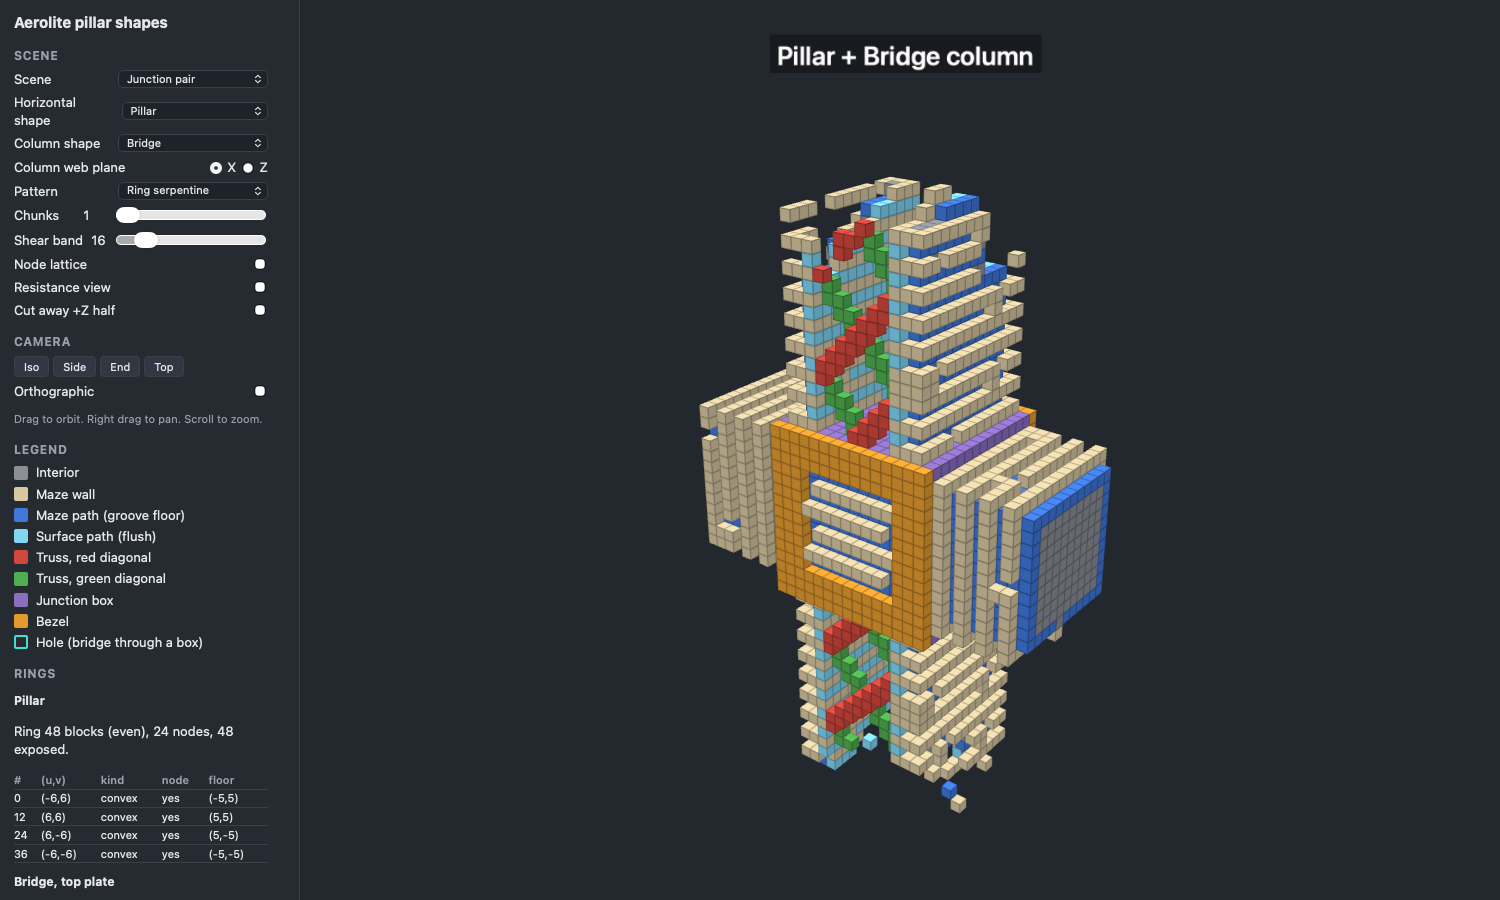
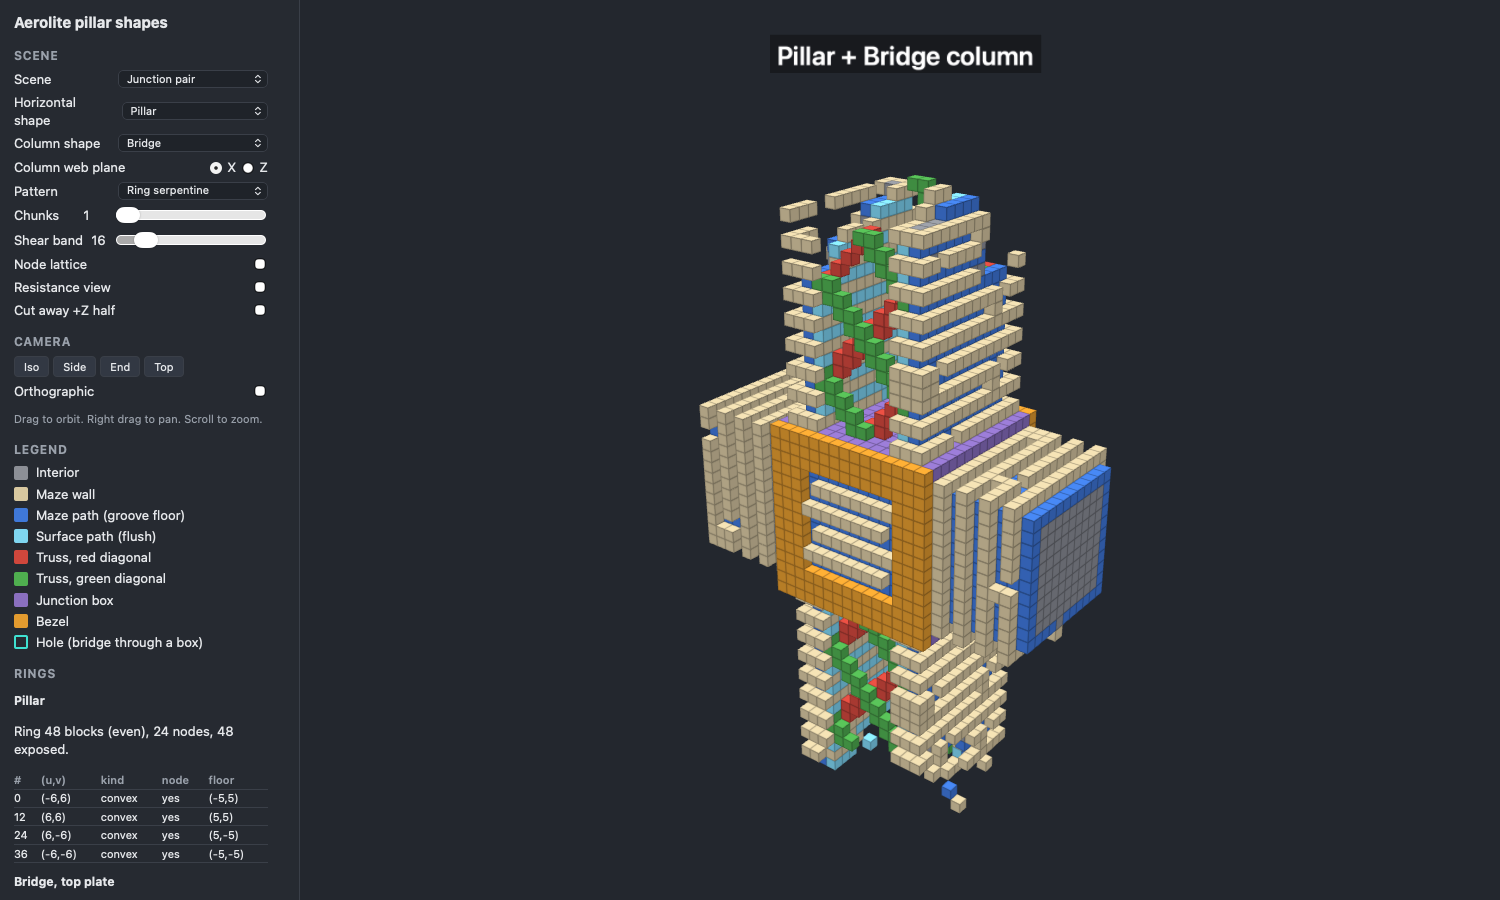
Move bridge trusses inward, anchor them into plates, narrow flush pattern

diff --git a/prototypes/shapes/shapes.js b/prototypes/shapes/shapes.js
@@ -29,14 +29,15 @@
 
   // The truss diagonal at the offset and the axis position, or null.
   // Row r runs from 0 at v = 6 down to 12 at v = -6, like bridge.png.
+  // Rows 2 and 10 are the anchors in the inner plate layers.
   function bridgeTruss(u, v, s) {
-    if (Math.abs(v) > 3) return null;
+    if (Math.abs(v) > 4) return null;
     const r = 6 - v;
     const m = mod(s, 8);
     const red = m === mod(5 - r, 8) || m === mod(6 - r, 8);
     const green = m === mod(r + 1, 8) || m === mod(r + 2, 8);
-    if (u === 6 || u === -5) return red ? 'trussRed' : null;
-    if (u === -6 || u === 5) return green ? 'trussGreen' : null;
+    if (u === 4 || u === -5) return red ? 'trussRed' : null;
+    if (u === -4 || u === 5) return green ? 'trussGreen' : null;
     return null;
   }
 
@@ -153,7 +154,7 @@
       solid: bridgeSolid, resistance: bridgeResistance,
       rings: [traceRing(bridgeSolid, [-OUTER, OUTER]), traceRing(bridgeSolid, [-OUTER, -OUTER])],
       // The inner faces of the plates show the pattern as flush surface path blocks.
-      flush: (u, v) => Math.abs(v) === 4,
+      flush: (u, v) => Math.abs(v) === 4 && Math.abs(u) <= 5,
       truss: bridgeTruss,
     },
   };
@@ -261,6 +262,19 @@
         }
       }
     });
+    // A truss anchor replaces the plate block, also on a flush surface path.
+    for (let s = s0; s <= s1; s++) {
+      if (skip(s)) continue;
+      for (let u = -OUTER; u <= OUTER; u++) {
+        for (let v = -OUTER; v <= OUTER; v++) {
+          if (!shape.solid(u, v)) continue;
+          const t = shape.truss(u, v, s);
+          if (!t) continue;
+          const [x, y, z] = frame(s, u, v);
+          out.set(x, y, z, { role: t, res: TRUSS_RESISTANCE, owner: shape.key });
+        }
+      }
+    }
   }
 
   function carve(out, shape, p, frame, s) {

diff --git a/llm/transcripts/transcript_2026-11-02_09-29_550f132f-0def-4354-8b7f-e97e27655707.md b/llm/transcripts/transcript_2026-11-02_09-29_550f132f-0def-4354-8b7f-e97e27655707.md
@@ -8,8 +8,8 @@
 | Session transcript ID | `550f132f-0def-4354-8b7f-e97e27655707` |
 | Project | `/Users/drullkus/IdeaProjects/aerolite` (branch `main`) |
 | Started | 2026-11-02 09:29:30 UTC |
-| Ended | 2026-11-02 11:55:31 UTC |
-| Prompts / replies / tool calls | 6 / 35 / 101 |
+| Ended | 2026-11-02 12:16:35 UTC |
+| Prompts / replies / tool calls | 7 / 38 / 109 |
 | Repository path | `llm/transcripts/transcript_2026-11-02_09-29_550f132f-0def-4354-8b7f-e97e27655707.md` |
 
 Generated by `llm/tools/claude_transcript_to_md.py` from the local Claude Code transcript. Reasoning blocks, token usage, request identifiers, hook output and harness-injected context are omitted; tool results are omitted.
@@ -2239,5 +2239,175 @@ Three gaps in `surfacepaths.py`, left unchanged and worked around inside `tiles.
 These gaps go into the shared module when the Java batches unify the surface path rules.
 
 Defaults it chose: loop share 100%, a surface path on three tiles in four, the tail direction seeded, a tile belongs to the chunk of its center row, and the box scenes use stagger none.
+
+Batch 4 chaos is still running. I report it when it comes in.
+
+----
+## Prompt 7 — 2026-11-02 12:13:03 UTC
+
+### User:
+
+`maze-types-2` merged as `c2410fac`. LGTM.
+
+`shapes` merged as `e1b73947`.
+I looked and found a deviations from my vision of the bridge shape:
+
+* Trusses were supposed to dig a block into the plates, per white pixels in my reference image.
+* Bring trusses a block inwards. In a [1..13] block range, Red goes at 2 and 11, green goes at 3 and 12.
+* The surface path overextends the groove floors. Groove floors are 11 blocks wide but surface paths are 13 blocks wide when they should also be 11 to match the groove floors. I assume they were widened to accommodate the truss placements.
+
+New worktree for same subagent.
+
+`tiles` merged as `1be489f3`. LGTM.
+
+----
+
+<details>
+<summary>**Tool call: `mcp__ccd_turn__update_plan`**</summary>
+
+```json
+{
+  "items": [
+    {
+      "content": "Send the shapes subagent the bridge corrections",
+      "status": "in_progress"
+    },
+    {
+      "content": "Verify the bridge fix branch and batch 4 when they report",
+      "status": "pending"
+    }
+  ],
+  "scope": "continuation"
+}
+```
+
+</details>
+
+<details>
+<summary>**Tool call: `SendMessage`**</summary>
+
+```json
+{
+  "to": "ac48ef4c12395cdc6",
+  "summary": "Bridge corrections on a new worktree",
+  "message": "Follow-up on the shapes prototype: three corrections to the Bridge from the owner.\n\nThe owner merged claude/shapes into main as commit e1b73947. Start from main with a new worktree. Run from /Users/drullkus/IdeaProjects/aerolite: `git worktree add -b claude/shapes-2 .claude/worktrees/shapes-2`. Work only inside that worktree and only under prototypes/shapes/. Commit to that branch, do not push, do not touch main, do not edit CLAUDE.md. Keep every rule of the two CLAUDE.md files and the word check on your own files. When done, `git worktree remove .claude/worktrees/shapes-2` and keep the branch.\n\nCorrections, in the owner's words where possible:\n1. Trusses dig one block into the plates. The white pixels of prototypes/reference/bridge.png, in the inner plate layer (rows 2 and 10 of the image), are truss anchor blocks: the truss block replaces the plate block there. Your version kept those anchors as plate blocks; change it.\n2. Bring the trusses one block inward. In a 1 to 13 block range across the bridge, red goes at 2 and 11 and green goes at 3 and 12. In your u coordinates that is red at u = -5 and u = 4, green at u = -4 and u = 5. The outermost layer u = ±6 of the truss space is then empty, so the trusses stand one block in from the plate sides. Keep red outside green on one side and green outside red on the other, as this placement does.\n3. The flush surface path pattern on the inner plate faces is 11 blocks wide, u = -5 to 5, not 13. It matches the 11-wide groove floors of the outer faces. Your version widened it to 13; narrow it. Where an anchor block from correction 1 lands inside that 11-wide flush area, the truss anchor wins. State that rule in the README.\n\nUpdate shapes.js, the README tables (bridge layer table, truss rule, anchor rule) and every bridge screenshot under prototypes/shapes/images/ that changes: bridge-end, bridge-side, bridge-hole-cut, the bridge junction pairs, resistance-bridge, column-bridge, shapes-all and junctions-all. Take them with the same WKWebView program as before. Everything else on the page stays as it is.\n\nReport back: the branch name, the new bridge layer table, the anchor rule, the images that changed, and anything that did not fit. Keep the report under 250 words.",
+  "type": "message",
+  "recipient": "ac48ef4c12395cdc6",
+  "recipient_kind": "agent",
+  "content": "Follow-up on the shapes prototype: three correcti…"
+}
+```
+
+</details>
+
+<details>
+<summary>**Tool call: `mcp__ccd_turn__update_plan`**</summary>
+
+```json
+{
+  "advance": true
+}
+```
+
+</details>
+
+<details>
+<summary>**Tool call: `Edit`**</summary>
+
+File: `/Users/drullkus/.claude/projects/-Users-drullkus-IdeaProjects-aerolite/memory/plan-0-4-0.md`
+
+Replace:
+
+```
+- Merged on main: maze-types d932aaf4, bricks 2ebb166b, ui-mocks 44d8e6de, ui-mocks-d d0156844 (option D tabs is the chosen provider editor).
+```
+
+With:
+
+```
+- Merged on main: maze-types d932aaf4, bricks 2ebb166b, ui-mocks 44d8e6de, ui-mocks-d d0156844 (option D tabs is the chosen provider editor), maze-types-2 c2410fac, shapes e1b73947, tiles 1be489f3.
+- Bridge corrections of 2026-11-02 (claude/shapes-2): truss anchors replace the inner plate layer block (white pixels of bridge.png); trusses one block in from the plate sides, red at columns 2 and 11, green at 3 and 12 of 13; the flush inner-face pattern is 11 wide like the groove floors, anchors win inside it.
+```
+
+</details>
+
+<details>
+<summary>**Tool call: `mcp__ccd_turn__wrap_up`**</summary>
+
+```json
+{
+  "recap": "The shapes subagent is applying the three bridge corrections on claude/shapes-2: anchors dig into the plates, trusses sit one block in at columns 2, 3, 11 and 12, and the flush inner pattern is 11 wide. Batch 4 chaos is still running. I verify both branches when they report."
+}
+```
+
+</details>
+
+### Claude:
+
+The shapes subagent is back at work on `claude/shapes-2`, a fresh worktree from `main`, with your three bridge corrections:
+
+- Truss anchors replace the inner plate layer block where the white pixels of your reference sit.
+- Trusses move one block inward: red at columns 2 and 11, green at 3 and 12 of 13, so the outermost truss layer is empty and red stays outside green on one side and inside on the other.
+- The flush inner pattern narrows to 11 blocks, matching the groove floors. Where an anchor lands inside it, the anchor wins, and the README states that rule.
+
+It redoes every bridge screenshot that changes and leaves the rest of the page alone. Batch 4 chaos is still running. I verify both branches when they report.
+
+### Claude:
+
+Bridge fix reported. Checking the branch and the end and side renders.
+
+<details>
+<summary>**Tool call: `Bash`** — Inspect the shapes-2 branch and montage the bridge end and side renders</summary>
+
+```bash
+B=$(git merge-base main claude/shapes-2) && echo base=$B && git log --oneline $B..claude/shapes-2 && git diff --stat $B..claude/shapes-2 -- . ':!prototypes/shapes/images' && echo "--- outside prototypes/shapes:" && git diff --name-only $B..claude/shapes-2 | grep -v '^prototypes/shapes/'; echo "--- word check:" && git diff $B..claude/shapes-2 -- prototypes/shapes/shapes.js prototypes/shapes/scene.js prototypes/shapes/README.md | grep -iE '^\+.*\b(producer|order|brief|review|agent|lane|rig)\b' | cut -c1-120 | head -3; S=/private/tmp/claude-501/-Users-drullkus--claude-spares-spare-WE2vPu/550f132f-0def-4354-8b7f-e97e27655707/scratchpad; for n in bridge-end bridge-side; do git show claude/shapes-2:prototypes/shapes/images/$n.png > $S/sh2_$n.png; done; python3 -c "
+from PIL import Image
+a=Image.open('$S/sh2_bridge-end.png').convert('RGB'); b=Image.open('$S/sh2_bridge-side.png').convert('RGB')
+a=a.crop((300,100,1500,900)); b=b.crop((300,100,1500,900))
+out=Image.new('RGB',(a.size[0]*2+10,a.size[1]),(255,255,255)); out.paste(a,(0,0)); out.paste(b,(a.size[0]+10,0))
+out=out.resize((out.size[0]*2//3,out.size[1]*2//3)); out.save('$S/sh2_montage.png'); print(out.size)"
+```
+
+</details>
+
+<details>
+<summary>**Tool call: `Read`**</summary>
+
+File: `/private/tmp/claude-501/-Users-drullkus--claude-spares-spare-WE2vPu/550f132f-0def-4354-8b7f-e97e27655707/scratchpad/sh2_montage.png`
+
+</details>
+
+<details>
+<summary>**Tool call: `mcp__ccd_turn__wrap_up`**</summary>
+
+```json
+{
+  "recap": "The bridge corrections are verified on claude/shapes-2: anchors replace the inner plate blocks, trusses sit at columns 2, 3, 11 and 12, and the flush pattern is 11 wide. Only batch 4 chaos is still running."
+}
+```
+
+</details>
+
+### Claude:
+
+The bridge fix is verified and ready to apply:
+
+```bash
+git cherry-pick -n main..claude/shapes-2
+```
+
+What changed, as you asked:
+
+- Truss anchors now replace the plate block at the inner plate layer. An anchor wins over a maze wall and over a flush surface path, and the README states that rule.
+- Trusses stand one block in from the plate sides: red at columns 2 and 11, green at 3 and 12. The outer layer of the truss space is empty.
+- The flush inner pattern is 11 wide, matching the groove floors.
+
+Three consequences the subagent noted:
+
+- Eight blocks now lie between the two red layers, not ten.
+- The open passage through a junction hole is 7 wide, because all four truss layers persist inside the hole.
+- Seen from +Z, the green layer is now in front in `bridge-side.png`.
+
+Retaken screenshots: the bridge end, side and hole views, the five bridge junction pairs, the bridge resistance views, the bridge column and the two overview images.
 
 Batch 4 chaos is still running. I report it when it comes in.

diff --git a/prototypes/shapes/README.md b/prototypes/shapes/README.md
@@ -134,15 +134,19 @@ The resistance view uses a ramp from yellow (0) to dark purple (1).
 
 ### Layers across the bridge
 
-| u | Layer | Content at v from -3 to 3 |
-|---|---|---|
-| 6 | Outer layer, +u side | Red truss |
-| 5 | Inner layer, +u side | Green truss |
-| -4 to 4 | Inside | Hollow, 9 wide and 7 tall |
-| -5 | Inner layer, -u side | Red truss |
-| -6 | Outer layer, -u side | Green truss |
+| u | Block 1 to 13 | Layer | Content at v from -4 to 4 |
+|---|---|---|---|
+| 6 | 13 | Plate side column | Empty truss space |
+| 5 | 12 | Outer truss layer, +u side | Green truss |
+| 4 | 11 | Inner truss layer, +u side | Red truss |
+| -3 to 3 | 4 to 10 | Inside | Hollow, 7 wide and 7 tall |
+| -4 | 3 | Inner truss layer, -u side | Green truss |
+| -5 | 2 | Outer truss layer, -u side | Red truss |
+| -6 | 1 | Plate side column | Empty truss space |
 
-- 10 blocks lie between the two red layers. 10 blocks lie between the two green layers.
+- The trusses stand one block in from the plate sides. The truss space at u = 6 and u = -6 is empty.
+- On the +u side, green is outside red. On the -u side, red is outside green.
+- 8 blocks lie between the two red layers. 8 blocks lie between the two green layers.
 - The red and green diagonals never intersect, because they live in different layers.
 
 ### Layers up the bridge
@@ -151,19 +155,22 @@ The resistance view uses a ramp from yellow (0) to dark purple (1).
 |---|---|
 | 6 | Outer face of the top plate. It holds the grooves. |
 | 5 | Middle layer of the top plate. It holds the groove floor. |
-| 4 | Inner face of the top plate. It holds the flush surface paths. |
+| 4 | Inner face of the top plate. It holds the flush surface paths and the truss anchors of row 2. |
 | 3 to -3 | Truss rows 3 to 9 of `bridge.png` |
-| -4 | Inner face of the bottom plate |
+| -4 | Inner face of the bottom plate. It holds the truss anchors of row 10. |
 | -5 | Middle layer of the bottom plate |
 | -6 | Outer face of the bottom plate |
 
 ### Trusses
 
 - Row r of `bridge.png` is v = 6 - r. The column of `bridge.png` is the axis position s.
-- A red truss block sits where s mod 8 is (5 - r) mod 8 or (6 - r) mod 8.
-- A green truss block sits where s mod 8 is (r + 1) mod 8 or (r + 2) mod 8.
+- The truss rule covers rows 2 to 10, at v from 4 to -4.
+- A red truss block sits at u = 4 and u = -5, where s mod 8 is (5 - r) mod 8 or (6 - r) mod 8.
+- A green truss block sits at u = 5 and u = -4, where s mod 8 is (r + 1) mod 8 or (r + 2) mod 8.
 - Each diagonal is 2 blocks wide per row. It runs 8 rows over 8 blocks of length, with a period of 8.
 - Both diagonals anchor at s mod 8 = 3 and 4, in row 2 and row 10. These are the white blocks of `bridge.png`.
+- The trusses dig one block into the plates. Rows 2 and 10 are the inner plate layers.
+- Anchor rule: a truss anchor block replaces the plate block at its position. It wins over a maze wall and over a flush surface path.
 - In the middle row, v = 0, both diagonals sit at s mod 8 = 7 and 0. They cross there in projection.
 - A rotation of 180 degrees about the vertical axis at s = 3.5 maps each red layer onto a green layer. So both sides look the same.
 - `images/bridge-side.png` matches `bridge.png` along two periods.
@@ -173,7 +180,10 @@ The resistance view uses a ramp from yellow (0) to dark purple (1).
 - Each plate has its own ring of 28 blocks: the outer face (13 blocks), one side block, the inner face (13 blocks) and the other side block.
 - The 4 plate corners sit on even indices. They are corner nodes.
 - The outer face carries grooves.
-- The inner face is flat. A path on it is a flush surface path block. A wall on it is a maze wall block.
+- The inner face is flat. The flush pattern is 11 blocks wide, at u from -5 to 5. It matches the 11-wide groove floors of the outer face.
+- In that area, a path is a flush surface path block and a wall is a maze wall block.
+- The inner corner nodes at u = 6 and u = -6 are not flush. They carve like the plate side.
+- A truss anchor in the flush area wins over the pattern. See the anchor rule.
 - Proposal for the plate side: the side holds 2 corner nodes and 1 ring edge, like the corner margin of the Pillar. It shows maze wall, with a groove where a path wraps from the outer face to the inner face.
 - The trusses are their own block field. They carry no pattern.
 
@@ -183,7 +193,7 @@ The resistance view uses a ramp from yellow (0) to dark purple (1).
 - The patch on +Z serves the horizontal pillar. The patch on -Z serves the column.
 - A horizontal Bridge gets a hole of 11x11 along X through the box, at |y| and |z| up to 5.
 - The bridge blocks persist inside the hole. Where a box block and a bridge block share a position, the box block wins.
-- So inside the hole, the plate layers at |v| = 4 and 5 and the inner truss layers at |u| = 5 remain. The open passage is 9 wide and 7 tall.
+- So inside the hole, the plate layers at |v| = 4 and 5 and all four truss layers remain, with their anchors. The open passage is 7 wide and 7 tall.
 - A column Bridge through a box gets no hole.
 
 ## Erosion and shear
@@ -194,7 +204,7 @@ The resistance view uses a ramp from yellow (0) to dark purple (1).
 - A flange is 4 thick. Its two middle layers have resistance 1. Its surface layers have resistance 0.
 - The web is 5 thick. Its layers have resistance 0, 0.5, 1, 0.5 and 0.
 - A bridge plate is 3 thick. Its middle layer has resistance 1. Its two faces have resistance 0.
-- Proposal: a truss block has the constant resistance 0.5.
+- Proposal: a truss block has the constant resistance 0.5. A truss anchor also has 0.5.
 - A box block takes the largest of the box resistance and the resistance of each pillar through it, like today.
 - Each column keeps the shear band at both ends, for each shape. The page uses one value noise. The threshold rises from 0 at the inner band edge to 1 at the end.
 
@@ -202,7 +212,6 @@ The resistance view uses a ramp from yellow (0) to dark purple (1).
 
 - The ring of the I-beam holds the 4 hidden concave corner blocks, so it is 64 blocks. The other choice is the 60 exposed blocks, with the web nodes at odd v.
 - The inner flange corners are ring edges, not corner nodes. So the I-beam has no corner margin there.
-- The truss anchors in rows 2 and 10 lie inside the plates. The page keeps them as plate blocks, so the flush pattern of the inner face stays unbroken. The other choice is a truss block in each anchor.
 - The two plates of a Bridge have separate rings. The sampler then makes one tree per plate, or joins the plates through the trusses.
 - A truss block has the resistance 0.5 on the page.
 - The Bridge column takes its truss plane from the same seeded choice as the I-beam web.
